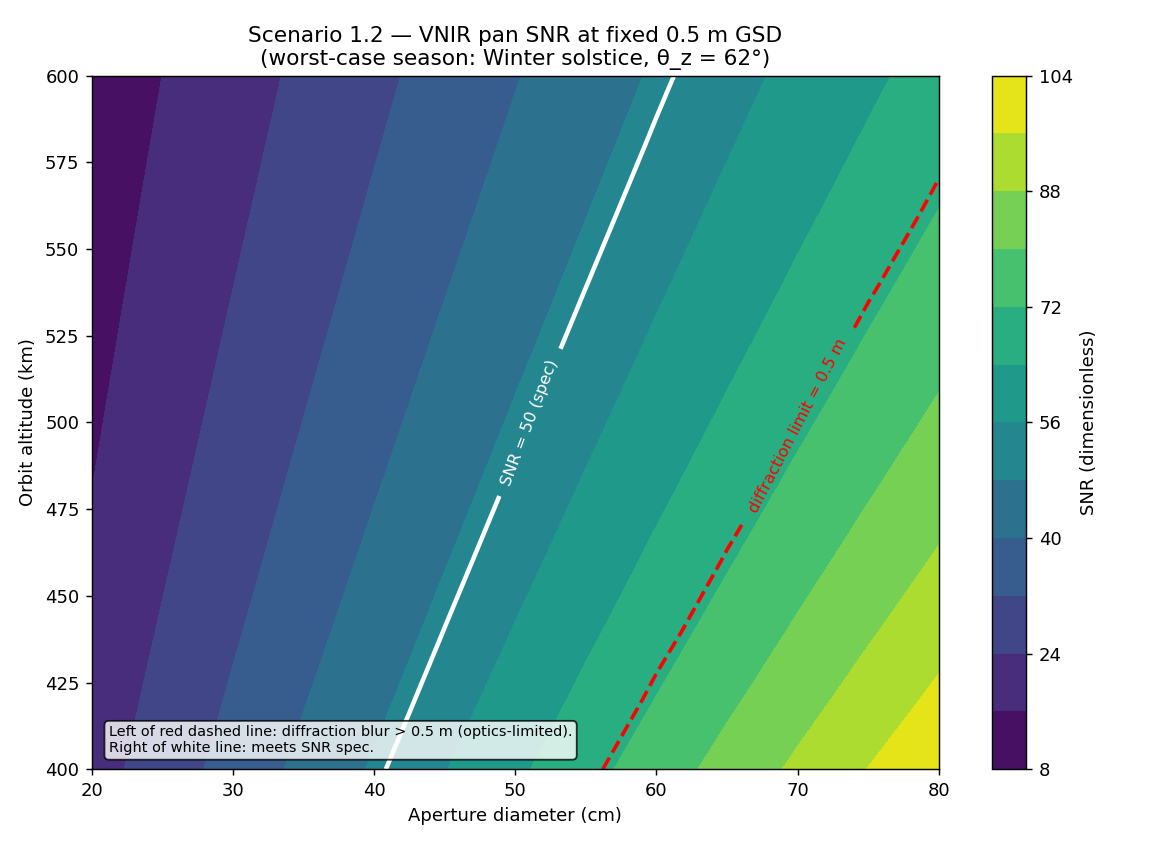
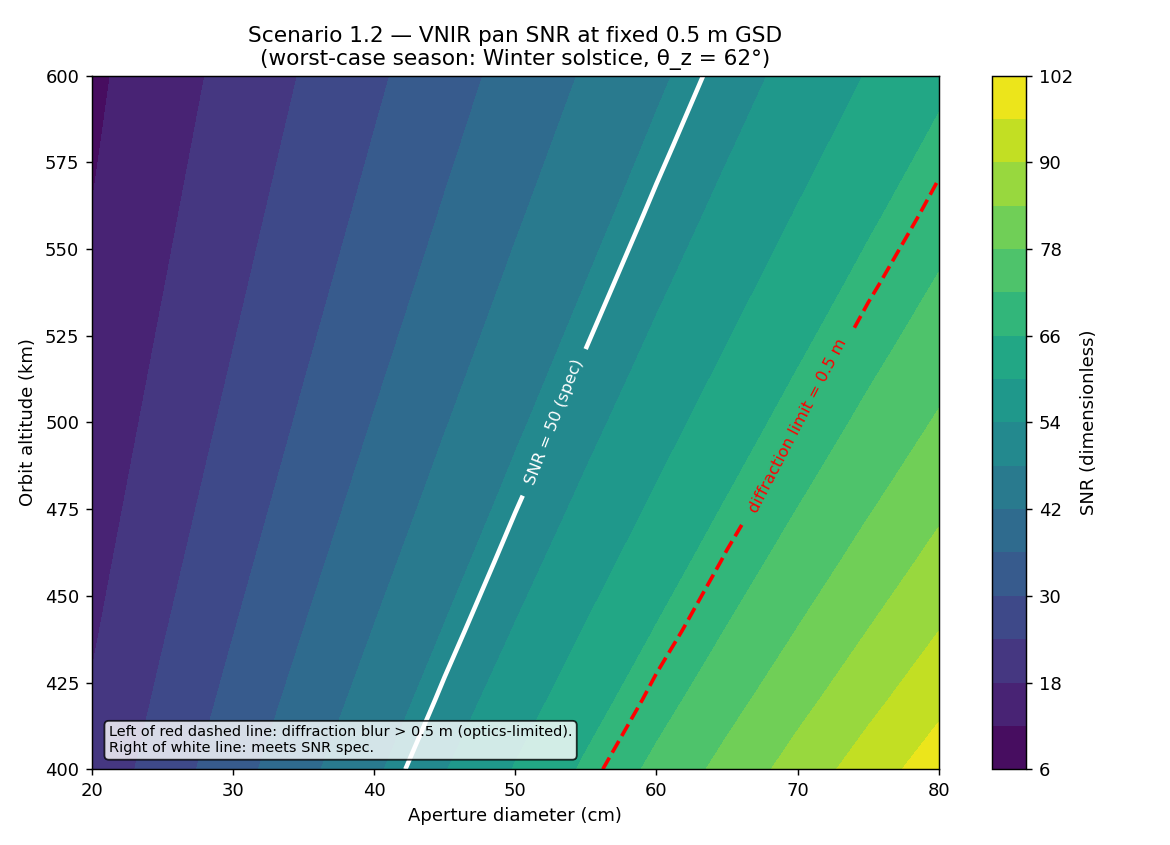
docs(scenarios): CU-176 — refresh 1.2 (VNIR GSD/aperture/altitude) numbers + figures
Spot-check found VNIR SNR drift from the recalibration (~3-4% lower across the
grid; Q, diff-GSD, and min-aperture sizing unchanged since they are geometric).
Reference 50 cm/500 km winter SNR 48.9->47.1 (still FAILS spec), summer 86->83.8,
seasonal swing 43%->44%. Runner uses Agg + no NIIRS, no code change needed.

diff --git a/scenarios/01_sarah_systems_engineer/1.2_vnir_gsd_aperture_altitude/walkthrough.md b/scenarios/01_sarah_systems_engineer/1.2_vnir_gsd_aperture_altitude/walkthrough.md
@@ -71,9 +71,9 @@ optics as the orbit rises.
 
 | Aperture | 400 km | 500 km | 600 km |
 |----------|--------|--------|--------|
-| 20 cm | SNR 20.7, Q 2.30, diff-GSD 1.40 m | SNR 15.1, Q 2.88 | SNR 11.4, Q 3.45 |
-| 50 cm | SNR 62.5, Q 0.92, diff-GSD 0.56 m | SNR 48.9, Q 1.15, diff-GSD 0.70 m | SNR 39.6, Q 1.38 |
-| 80 cm | SNR 102.8, Q 0.57, diff-GSD 0.35 m | SNR 81.4, Q 0.72 | SNR 67.1, Q 0.86 |
+| 20 cm | SNR 19.8, Q 2.30, diff-GSD 1.40 m | SNR 14.4, Q 2.88 | SNR 10.8, Q 3.45 |
+| 50 cm | SNR 60.3, Q 0.92, diff-GSD 0.56 m | SNR 47.1, Q 1.15, diff-GSD 0.70 m | SNR 38.1, Q 1.38 |
+| 80 cm | SNR 99.3, Q 0.57, diff-GSD 0.35 m | SNR 78.6, Q 0.72 | SNR 64.7, Q 0.86 |
 
 - **The 20 cm aperture is diffraction-limited** everywhere (Q > 2.3,
   diffraction ground spot 1.4–2.1 m ≫ the 0.5 m pixel): the pixel is far
@@ -84,8 +84,8 @@ optics as the orbit rises.
   GSD. This is the efficient regime for a 0.5 m sample.
 - **The 50 cm aperture straddles the crossover** (Q ≈ 0.9–1.4) — near
   critical sampling, the usual sweet spot for a pan imager.
-- **Seasonal swing is 43%**: at the 50 cm / 500 km reference design SNR
-  runs 86 in summer (θ_z = 23°) down to **48.9 in winter (θ_z = 62°),
+- **Seasonal swing is 44%**: at the 50 cm / 500 km reference design SNR
+  runs 83.8 in summer (θ_z = 23°) down to **47.1 in winter (θ_z = 62°),
   which FAILS the SNR = 50 spec.** Sizing to the annual mean would ship a
   sensor that misses spec every winter — the worst-case-season floor is
   the correct sizing basis.
